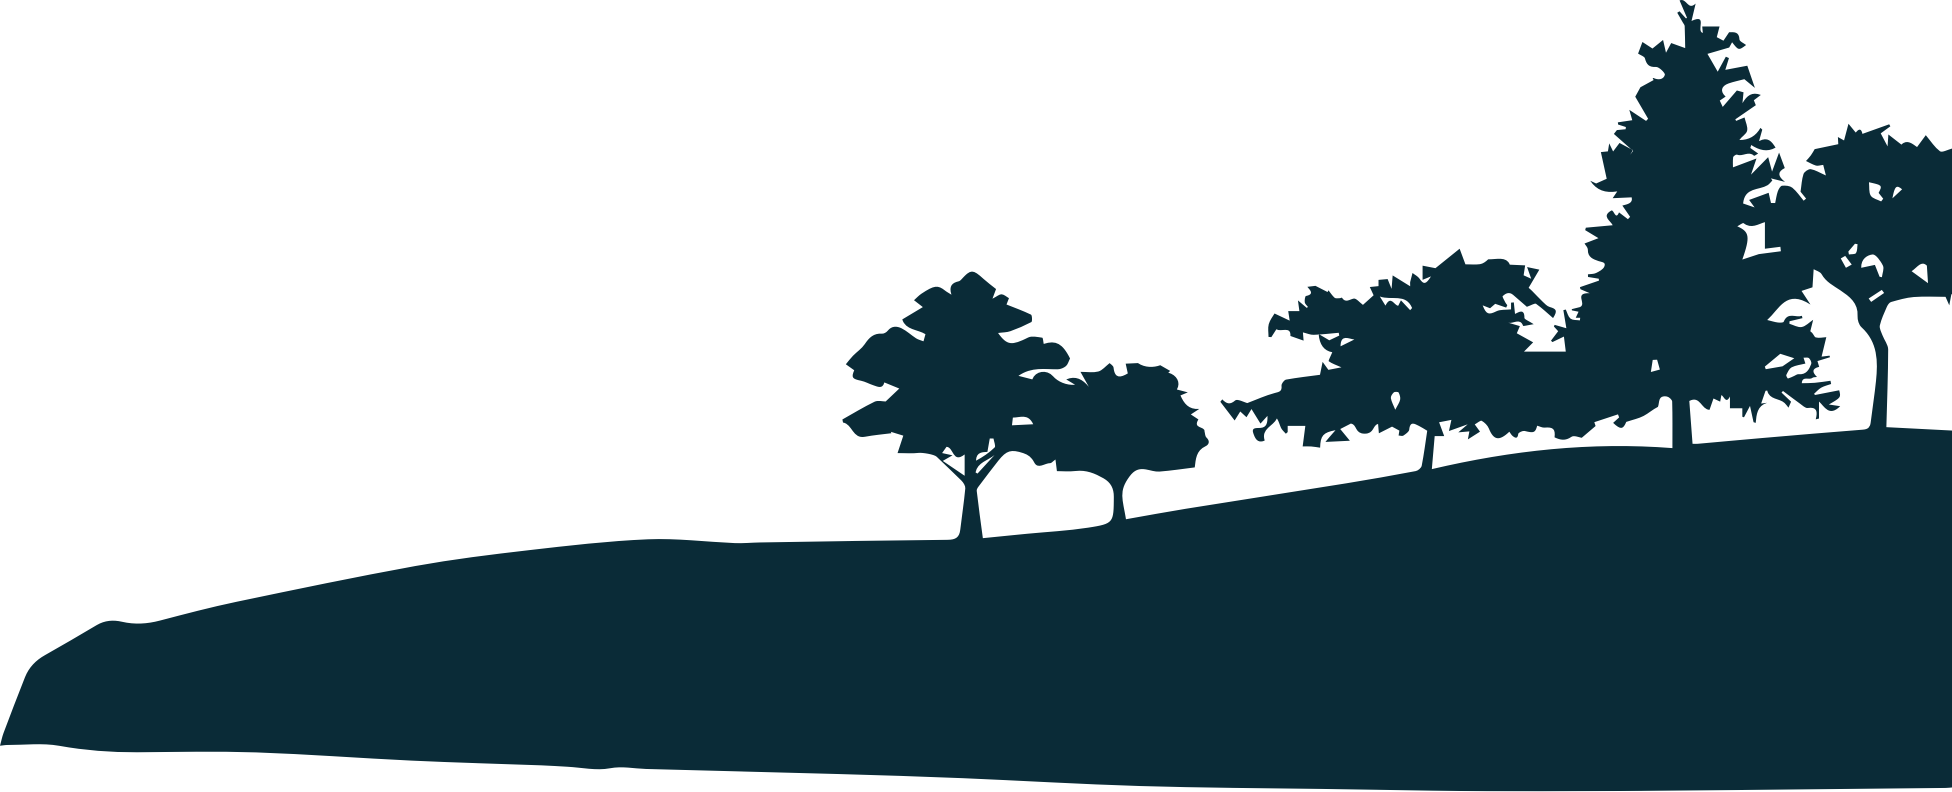
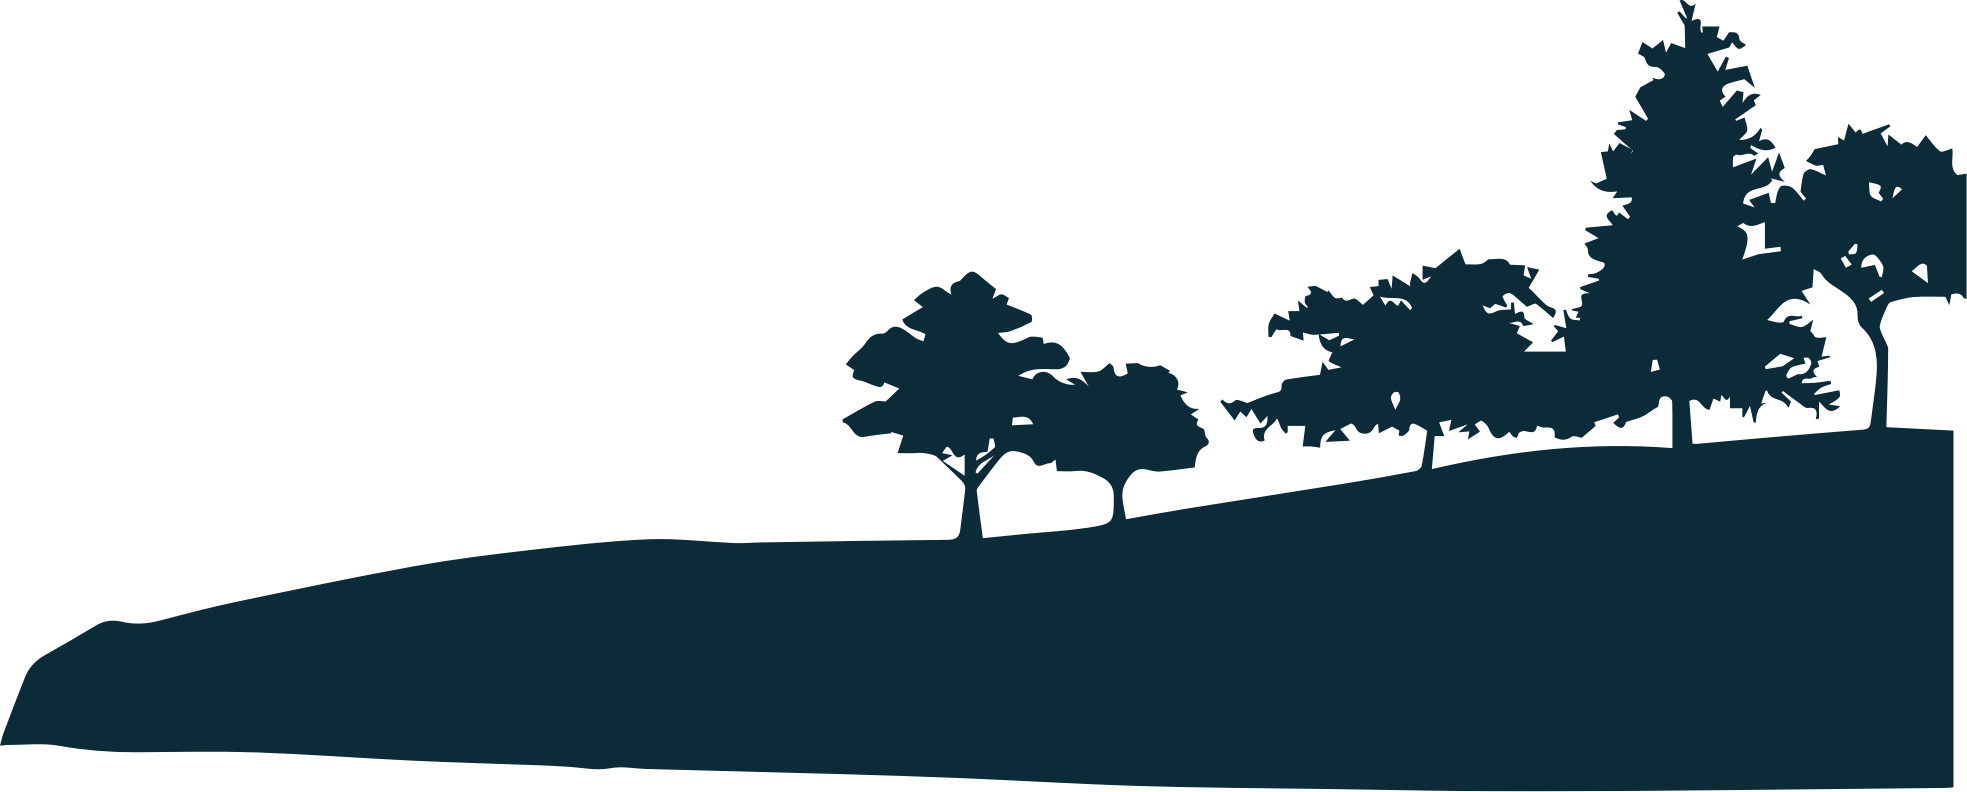
Sturgeon headers

diff --git a/src/app/core/consts.js b/src/app/core/consts.js
@@ -187,51 +187,58 @@ export const PARALLAX_LAYERS = {
     layerFactory({
       index: 0,
       x: 0,
-      y: 0,
-      width: 2563,
-      height: 1661,
+      y: -160,
+      width: 2575,
+      height: 5619,
+      range: [1, 1.3],
     }),
     layerFactory({
       index: 1,
-      x: 0,
-      y: 545,
-      width: 2564,
-      height: 98,
+      x: 497,
+      y: 107,
+      width: 1496,
+      height: 483,
+      range: [1, 4.6],
     }),
     layerFactory({
       index: 2,
-      x: 618,
-      y: 223,
-      width: 1496,
-      height: 363,
+      x: 0,
+      y: 583,
+      width: 2559,
+      height: 988,
+      range: [1, 1.35],
     }),
     layerFactory({
       index: 3,
-      x: 452,
-      y: 318,
-      width: 1662,
-      height: 696,
+      x: -20,
+      y: 315,
+      width: 1754,
+      height: 461,
+      range: [1, 2.5],
     }),
     layerFactory({
       index: 4,
-      x: 2005,
-      y: 716,
-      width: 628,
-      height: 150,
+      x: 608,
+      y: 38,
+      width: 1967,
+      height: 792,
+      range: [1, 15],
     }),
     layerFactory({
       index: 5,
       x: 0,
-      y: 950,
-      width: 2565,
-      height: 650,
+      y: 378,
+      width: 1302,
+      height: 1089,
+      range: [1, 1],
     }),
     layerFactory({
       index: 6,
-      x: 0,
-      y: 685,
-      width: 2563,
-      height: 915,
+      x: 1135,
+      y: 617,
+      width: 1164,
+      height: 638,
+      range: [1, 1],
     }),
   ],
   'microplastics': [

diff --git a/src/app/screens/LandingScreen.js b/src/app/screens/LandingScreen.js
@@ -89,7 +89,8 @@ export default class LandingScreen extends BaseScreen {
             title="Life of a River"
             // parallaxHeaderId="landing"
             // parallaxHeaderId="island-people"
-            parallaxHeaderId="hydro-power"
+            // parallaxHeaderId="hydro-power"
+            parallaxHeaderId="sturgeon"
           />
         </Section>
 
